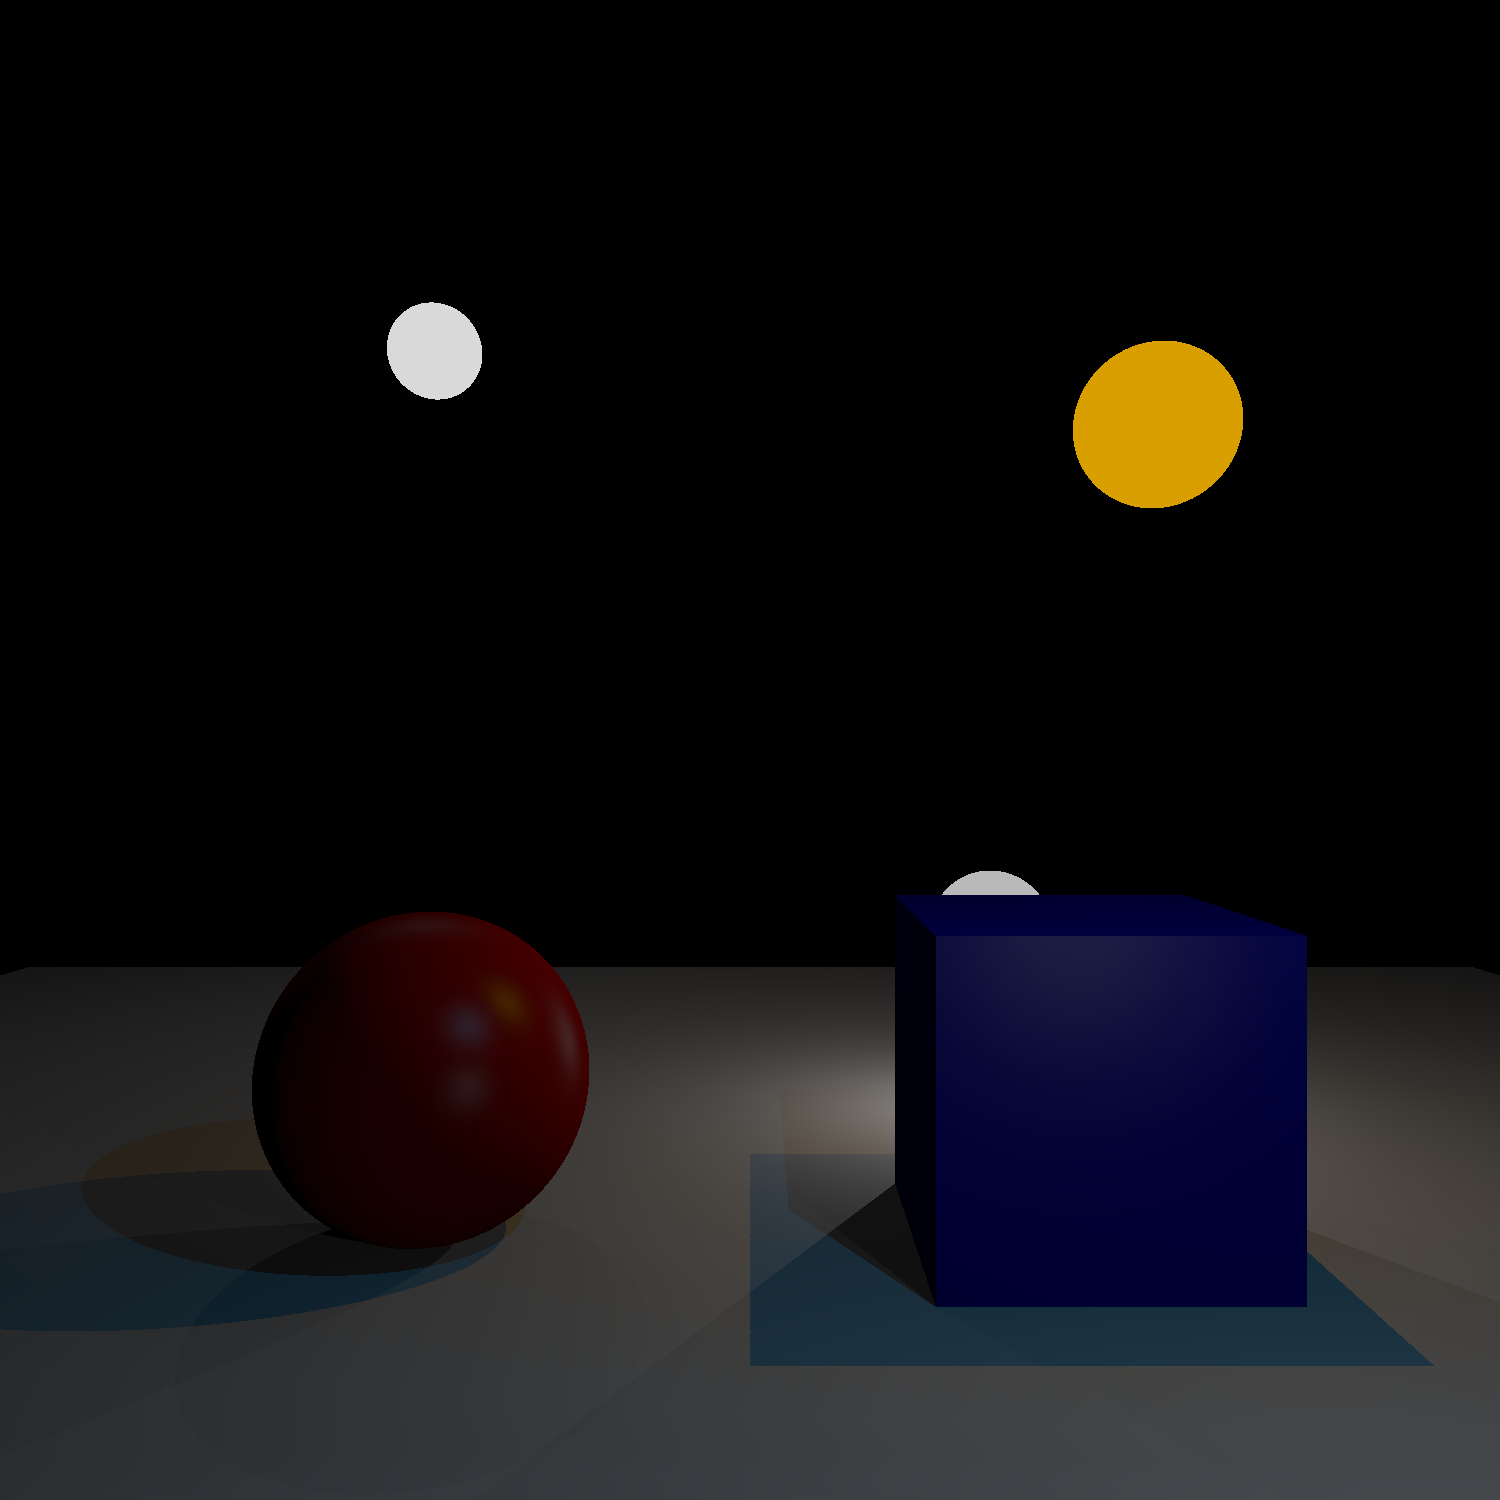
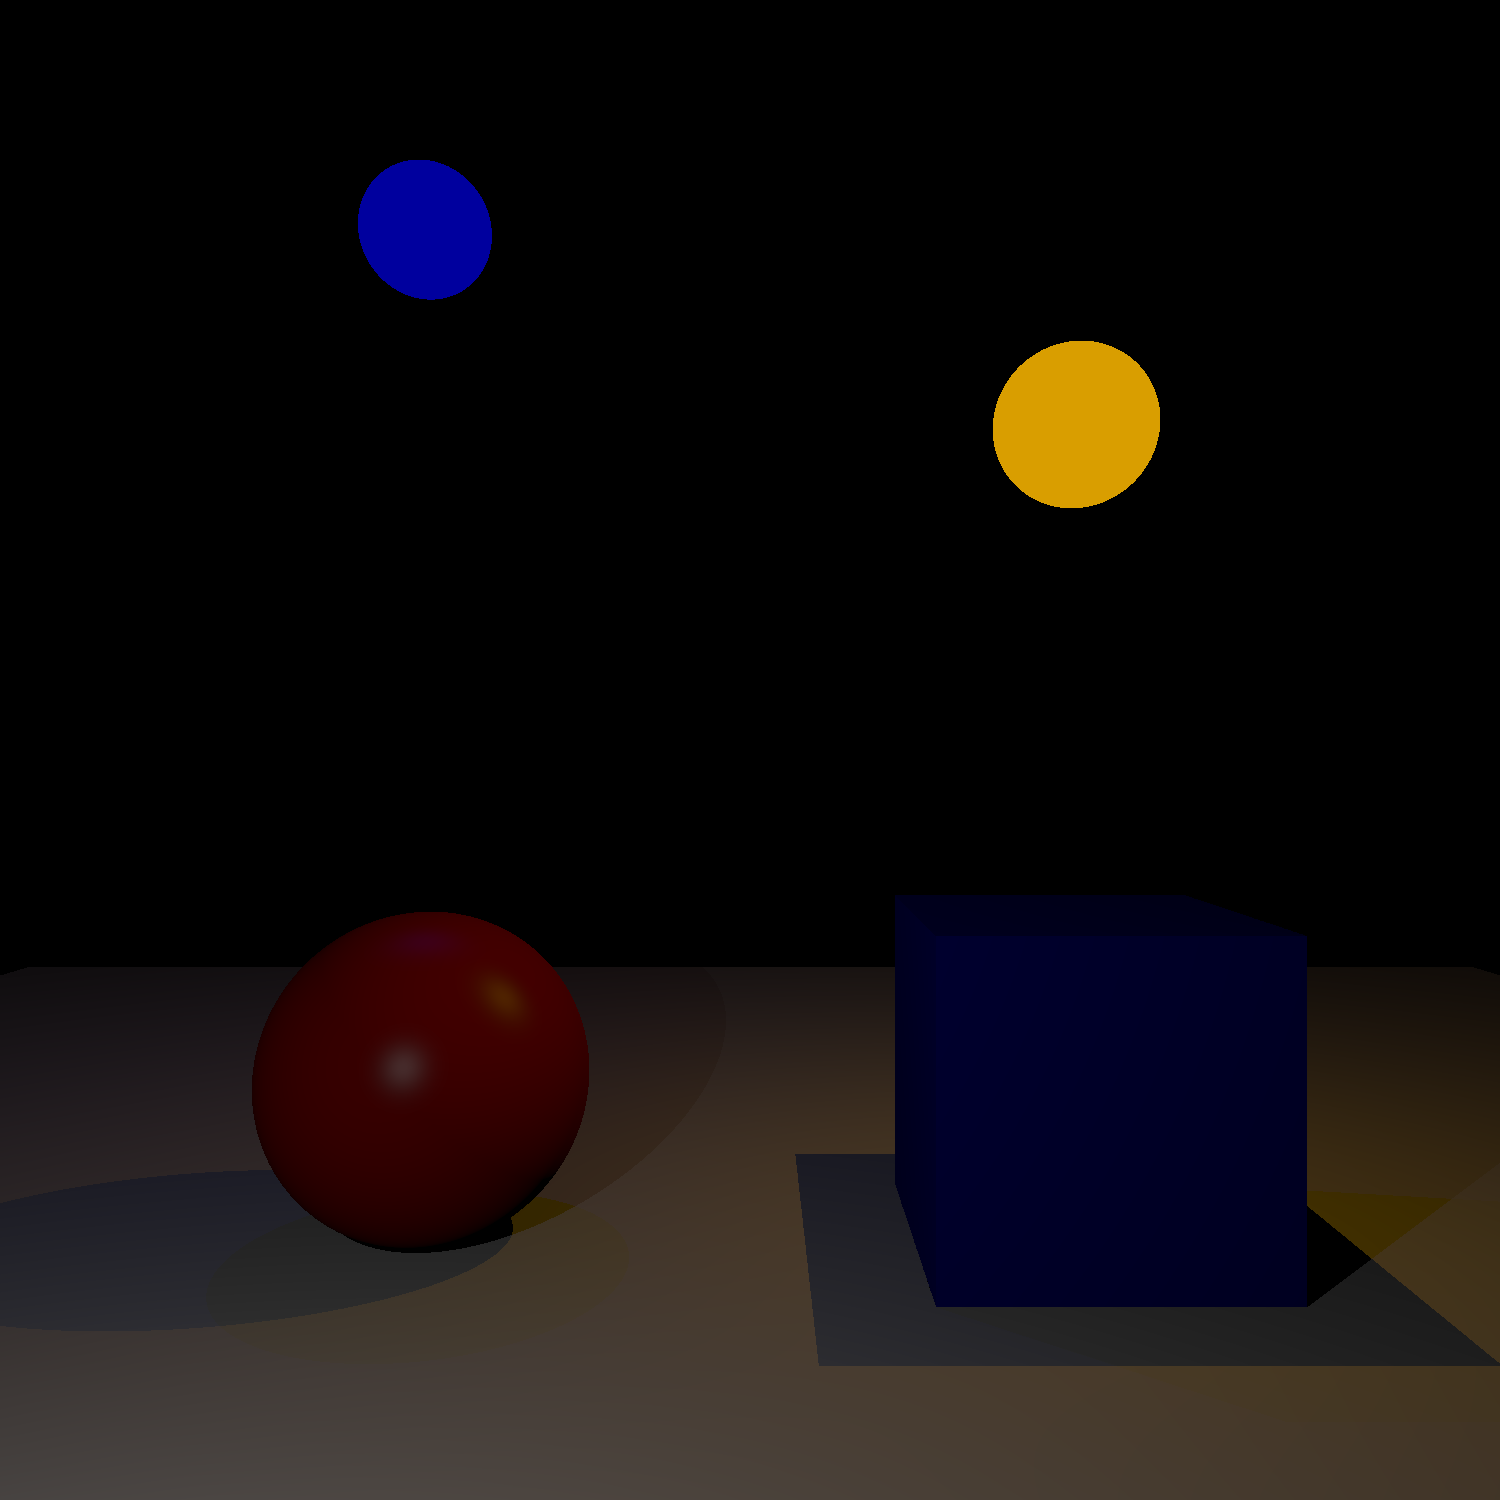
adjusting sampler architecture

diff --git a/src/cgg/a04/Scene.java b/src/cgg/a04/Scene.java
@@ -30,12 +30,9 @@ public class Scene implements Stage
 		_testing();
 
 		// lighting
-		//phong_lights.add(new DirectionalLight(vec3(1,-.7,-.7),color(.7,.7,.7),1));
-		_craeveTheVorbiddenLaemp(vec3(1.25,-1,-4),color(1,.5,0),.7);
-		_craeveTheVorbiddenLaemp(vec3(1.25,-1.5,-2),color(0,.5,1),1);
-		_craeveTheVorbiddenLaemp(vec3(1.5,.75,-1),color(.7,.7,.7),.4);
-		_craeveTheVorbiddenLaemp(vec3(1,.75,-5.4),color(.7,.7,.7),.4);
-		_craeveTheVorbiddenLaemp(vec3(-1.7,-2.15,-7),color(1,1,1),.2);
+		_craeveTheVorbiddenLaemp(vec3(-1,0,-1),color(1,1,1),.7);
+		_craeveTheVorbiddenLaemp(vec3(1,-1,-4),color(1,.5,0),.7);
+		_craeveTheVorbiddenLaemp(vec3(-1.25,-2,-5),color(0,0,.5),.4);
 	}
 
 	private void _testing()

diff --git a/src/cgg/Image.java b/src/cgg/Image.java
@@ -1,6 +1,8 @@
 package cgg;
 
+import static tools.Functions.*;
 import tools.*;
+
 
 public class Image implements tools.Image {
 
@@ -13,6 +15,15 @@ public class Image implements tools.Image {
 		this.height = height;
 		this.data = new double[width*height*3];
     }
+
+	public void sample(Sampler sampler)
+	{
+		for (int x=0;x<width;x++)
+		{
+			for (int y=0;y<height;y++)
+				setPixel(x,y,sampler.getColor(vec2(x,y)));
+		}
+	}
 
     public void setPixel(int x, int y, Color color) {
 		int __PixelIndex = calculatePixelIndex(x,y);

diff --git a/src/cgg/a04/Main.java b/src/cgg/a04/Main.java
@@ -20,18 +20,7 @@ public class Main
 
 		// images
 		cgg.Image image = new cgg.Image(width,height);
-
-		// draw
-		for (int x=0;x<width;x++)
-		{
-			for (int y=0;y<height;y++)
-			{
-				Vec2 coord = vec2(x,y);
-				image.setPixel(x,y,rt.getColor(coord));
-			}
-		}
-
-		// write
+		image.sample(rt);
 		image.writePng("a04-image");
 	}
 }
